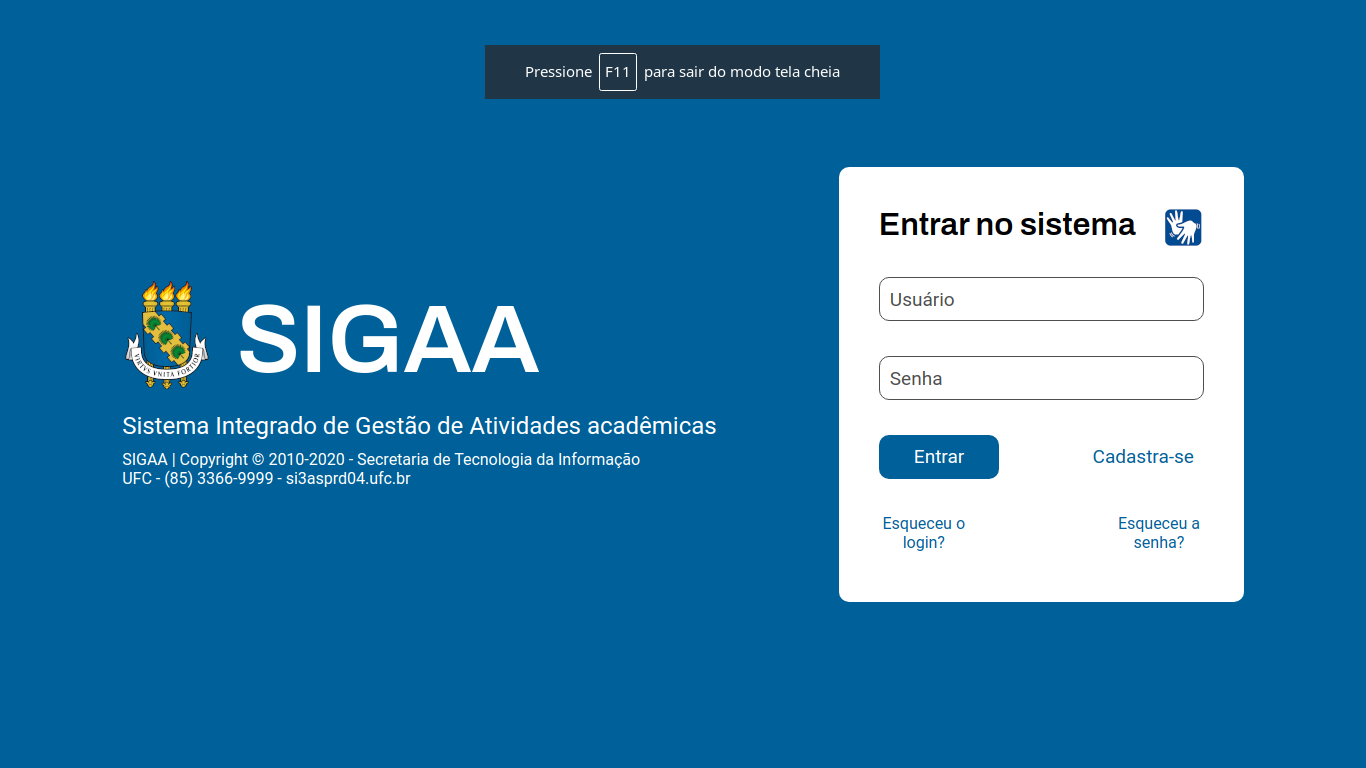
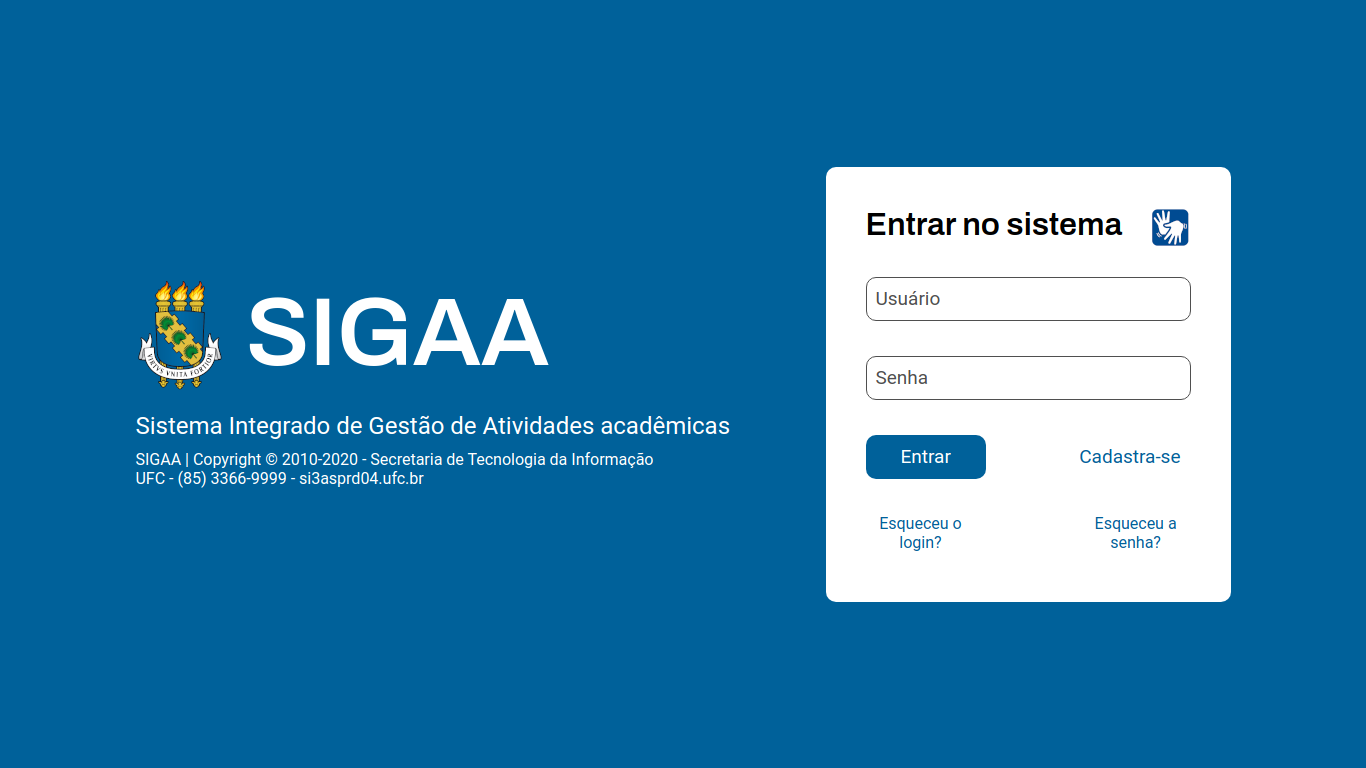
Tentando implementar media carrys no site

diff --git a/style.css b/style.css
@@ -103,9 +103,18 @@ form { position: relative; }
 }
 
 .signIn {
+  padding: 10px 35px;
   background: var(--blue);
+  outline:none;
   color: white;
-  padding: 10px 35px
+}
+
+.signIn:hover {
+  background: var(--light_blue);
+}
+
+.signIn:active {
+  background: var(--blue);
 }
 
 .signUp {
@@ -121,7 +130,6 @@ form { position: relative; }
 }
 
 .util {
-  position: relative;
   margin: 35px 10px 0px 10px;
   display: flex;
   justify-content: space-between;
@@ -143,4 +151,14 @@ form { position: relative; }
 .input_div input:valid + label{
   color: var(--blue);
   transform: translate3d(-20px, -35px, 0) scale(.9);
+}
+
+@media (max-width: 915px) {
+  body { 
+    flex-direction: column;
+  }
+
+  body > * {
+    margin: 40px;
+  }
 }
